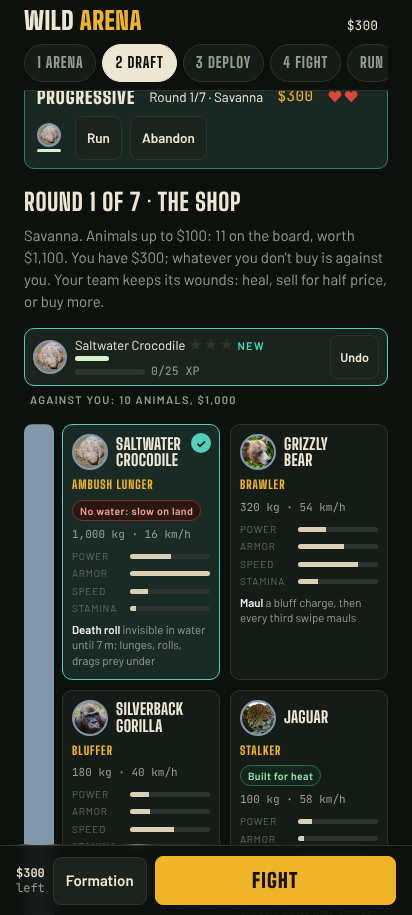
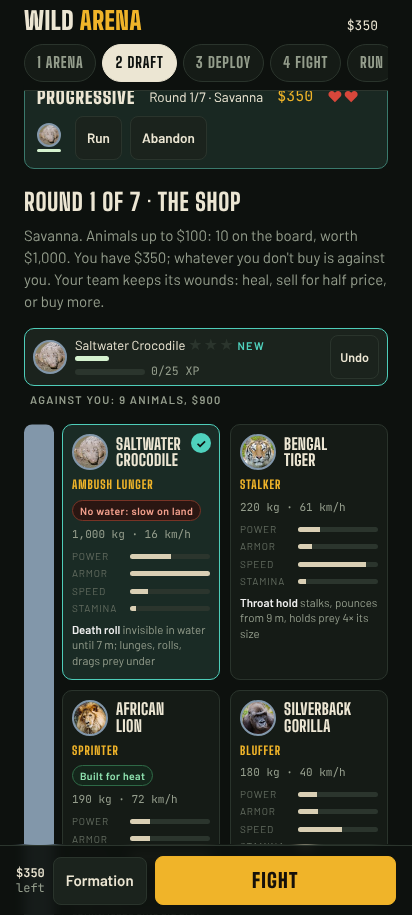
Final reprice on the integrated engine (abs_r16: 20 s/$100, board total $2,600: median best team 92%, typical 166 s, 16 distinct best teams); progressive retuned on it (start $450, boards 10/10/10/10/11/11/12 worth $1,000-2,600: round 1 81%, 15.8% complete); docs and decisions
Claude-Session: https://claude.ai/code/session_01L2JvfUwxunjk4yQsnvm84a

diff --git a/index.html b/index.html
@@ -439,11 +439,11 @@ const ANIMALS = [
   traits:['Lookout: your whole team spots threats 50% farther away','Sees lions a kilometre off, and one kick can kill one','Only kicks what comes at it; never starts a fight']},
  {id:'polar', name:'Polar Bear', abbr:'PBR', price:200, mass:500, spd:11, dmg:145, cd:1.0, armor:.4, reach:2.1, stam:12, heat:.4, cold:1, water:.85, swim:3, aggr:.85, flee:.2, corner:1.3, pred:true, charge:false, vision:30, tags:['scavenger','aquaStalk','snowCamo'], prey:{human:1.6},
   traits:['Largest land carnivore, actively hunts humans; 10 cm of fat under dense fur blunts bites and claws','Aquatic stalk: hidden under water until 7 m, then surges out for an ambush strike (x1.7)','Overheats fast anywhere warm, but swimming cools it; dominant in snow, and white on white it is hard to spot until 15 m']},
- {id:'croc', name:'Saltwater Crocodile', abbr:'CRO', price:200, mass:1000, spd:4.5, dmg:220, cd:1.2, armor:.6, reach:2.2, stam:5, heat:1.1, cold:.2, water:1, swim:5, aggr:.8, flee:.15, corner:1.2, pred:true, charge:false, vision:20, tags:['deathroll','waterbound','ambush'], prey:{human:1.3},
+ {id:'croc', name:'Saltwater Crocodile', abbr:'CRO', price:100, mass:1000, spd:4.5, dmg:220, cd:1.2, armor:.6, reach:2.2, stam:5, heat:1.1, cold:.2, water:1, swim:5, aggr:.8, flee:.15, corner:1.2, pred:true, charge:false, vision:20, tags:['deathroll','waterbound','ambush'], prey:{human:1.3},
   traits:['Strongest bite measured: grabs and death-rolls in water','At home in water: almost invisible until 7 m. On land it is slow and tires fast, but the bite is just as deadly','Cold-blooded: never dealt on the tundra']},
- {id:'buffalo', name:'Cape Buffalo', abbr:'BUF', price:200, mass:750, spd:15, dmg:150, cd:1.2, armor:.4, reach:2.3, stam:20, heat:.9, cold:.6, water:.2, swim:1.5, aggr:.7, flee:.25, corner:1.5, pred:false, charge:true, vision:28, tags:['herd','vindictive','lionKiller'], rivals:{lion:3, tiger:1.8, hyena:1.6},
+ {id:'buffalo', name:'Cape Buffalo', abbr:'BUF', price:300, mass:750, spd:15, dmg:150, cd:1.2, armor:.4, reach:2.3, stam:20, heat:.9, cold:.6, water:.2, swim:1.5, aggr:.7, flee:.25, corner:1.5, pred:false, charge:true, vision:28, tags:['herd','vindictive','lionKiller'], rivals:{lion:3, tiger:1.8, hyena:1.6},
   traits:["'Black death': a wounded buffalo circles back for whoever hurt it, for a long time",'+50% damage against lions, tigers and hyenas','Without a herd, it fights alone']},
- {id:'bison', bluffP:0.3, name:'American Bison', abbr:'BIS', price:200, mass:900, spd:15, dmg:140, cd:1.3, armor:.35, reach:2.3, stam:40, heat:.75, cold:1, water:.2, swim:1.5, aggr:.5, flee:.3, corner:1.8, pred:false, charge:true, vision:28, tags:['herd','standsGround','bluff'],
+ {id:'bison', bluffP:0.3, name:'American Bison', abbr:'BIS', price:300, mass:900, spd:15, dmg:140, cd:1.3, armor:.35, reach:2.3, stam:40, heat:.75, cold:1, water:.2, swim:1.5, aggr:.5, flee:.3, corner:1.8, pred:false, charge:true, vision:28, tags:['herd','standsGround','bluff'],
   traits:['Injures more Yellowstone visitors than any other animal','Tail up, mock charge, then the real thing; spins on a dime','Huge stamina; at home in snow']},
  {id:'grizzly', name:'Grizzly Bear', abbr:'GRZ', bluffP:.75, price:200, mass:320, spd:15, dmg:125, cd:.9, armor:.35, reach:2, stam:15, heat:.65, cold:.95, water:.3, swim:1.8, aggr:.6, flee:.25, corner:1.3, pred:true, charge:false, vision:30, hpMul:1.2, tags:['scavenger','bluff'], prey:{human:.5}, rivals:{polar:1.3, wolf:1.3, cougar:1.4},
   traits:['Very hard to kill (+20% durability)','Charges at 56 km/h, often a bluff; if it does not stop, it mauls','Takes kills from cougars and wolves']},
@@ -464,7 +464,7 @@ const ANIMALS = [
  // ---- added Oct 2026 (no portrait yet: shown as a lettered token) ----
  {id:'blackrhino', bluffP:0.3, name:'Black Rhino', abbr:'BRH', price:300, mass:1200, spd:15, swim:1, dmg:160, cd:1.3, armor:.5, reach:2.3, stam:12, heat:.8, cold:.5, water:0, aggr:.8, flee:.1, corner:1.4, pred:false, charge:true, vision:15, tags:['blindCharger','bluff'],
   traits:['The irritable rhino: half the weight of a white rhino, twice the temper','Charges anything that moves within 18 m, though some charges veer off at the last moment','Hooked lip, sharp front horn, turns quickly for a rhino']},
- {id:'bull', name:'Fighting Bull', abbr:'TOR', price:100, mass:550, spd:15.5, swim:1.5, dmg:150, cd:1.2, armor:.25, reach:2.2, stam:14, heat:.8, cold:.7, water:.2, aggr:.95, flee:.1, corner:1.4, pred:false, charge:true, vision:25, tags:['bred','chasesMovement'],
+ {id:'bull', name:'Fighting Bull', abbr:'TOR', price:200, mass:550, spd:15.5, swim:1.5, dmg:150, cd:1.2, armor:.25, reach:2.2, stam:14, heat:.8, cold:.7, water:.2, aggr:.95, flee:.1, corner:1.4, pred:false, charge:true, vision:25, tags:['bred','chasesMovement'],
   traits:['Toro bravo: bred for centuries to charge, it never needs provoking','Charges whatever moves, then turns fast and comes back','Tires in a long fight']},
  {id:'moose', name:'Moose', abbr:'MOO', price:200, mass:600, spd:15.5, swim:2.5, dmg:140, cd:1.0, armor:.15, reach:2.2, stam:30, heat:.5, cold:1, water:.6, aggr:.5, flee:.3, corner:1.5, pred:false, charge:true, vision:25, tags:['standsGround','stomp'],
   traits:['Injures more people than bears do in Alaska','Stands its ground and stomps: front hooves rain down on anything small or knocked down','Long legs: at home in deep snow, a strong swimmer; suffers in heat']},
@@ -474,7 +474,7 @@ const ANIMALS = [
   traits:['Fearless once fighting: its morale never breaks; wary of big predators, it picks fights with its own size','Musk: a predator that gets hold of it gets a blast from its stink glands and reels away (once every 12 s)','Thick loose skin: it twists out of holds, and its bites on the legs keep rattling whatever it pesters']},
  {id:'triceratops', name:'Triceratops', abbr:'TRI', price:800, mass:8000, spd:8, swim:1.2, dmg:300, cd:1.5, armor:.5, reach:3.2, stam:15, heat:.8, cold:.6, water:.3, aggr:.6, flee:.1, corner:1.3, pred:false, charge:true, vision:25, rare:true, tags:['hatesPredators','giant'],
   traits:['Rare: only turns up on the odd board','Eight tonnes, a bony frill and two 1 m brow horns','Rideable 3 m up; charges like a rhino the size of an elephant']},
- {id:'mammoth', bluffP:0.35, name:'Woolly Mammoth', abbr:'MAM', price:500, mass:6000, spd:7, swim:1.5, dmg:260, cd:1.6, armor:.4, reach:3.6, stam:20, heat:.4, cold:1, water:.5, aggr:.55, flee:.15, corner:1.3, pred:false, charge:true, vision:40, rare:true, tags:['hatesPredators','giant','sweep','bluff'],
+ {id:'mammoth', bluffP:0.35, name:'Woolly Mammoth', abbr:'MAM', price:600, mass:6000, spd:7, swim:1.5, dmg:260, cd:1.6, armor:.4, reach:3.6, stam:20, heat:.4, cold:1, water:.5, aggr:.55, flee:.15, corner:1.3, pred:false, charge:true, vision:40, rare:true, tags:['hatesPredators','giant','sweep','bluff'],
   traits:['Rare: only turns up on the odd board','An elephant in a fur coat: shrugs off the cold, wilts in the heat','Huge curved tusks sweep everything in reach; rideable 3.2 m up']},
  {id:'blackbear', name:'Black Bear', abbr:'BBR', bluffP:.7, bluffHumanP:.1, price:100, mass:120, spd:13.5, swim:1.8, dmg:75, cd:.9, armor:.25, reach:1.8, stam:15, heat:.7, cold:.9, water:.4, aggr:.35, flee:.4, corner:1.6, pred:true, charge:false, vision:25, climb:true, tags:['scavenger','bluff','repeatBluff'], prey:{human:.4},
   traits:['Bouncer: huffs, pops its jaws and bluff-charges animals up to three times before it fights (a person it hunts for real); anything its size it rattles is run off','Bolts up the nearest tree when it is in trouble','Fights hard when cornered']},
@@ -531,7 +531,7 @@ const STYLE = {
 };
 ANIMALS.forEach(a => Object.assign(a, STYLE[a.id]));
 // Pack items: the same species, but one pick brings several. A board deals a species solo or as a pack, never both.
-for (const [id, n, groupName, price, suffix, dealWeight, rare] of [['wolf', 4, 'Wolf pack', 100, null, 3], ['wolf', 6, 'Great wolf pack', 200, 'pack6', .3, true], ['hyena', 4, 'Hyena clan', 100], ['lion', 2, 'Lion coalition', 200], ['buffalo', 3, 'Buffalo herd', 700, 'herd'], ['bison', 3, 'Bison herd', 700, 'herd'], ['muskox', 3, 'Musk ox herd', 400, 'herd']])
+for (const [id, n, groupName, price, suffix, dealWeight, rare] of [['wolf', 4, 'Wolf pack', 100, null, 3], ['wolf', 6, 'Great wolf pack', 200, 'pack6', .3, true], ['hyena', 4, 'Hyena clan', 200], ['lion', 2, 'Lion coalition', 100], ['buffalo', 3, 'Buffalo herd', 700, 'herd'], ['bison', 3, 'Bison herd', 700, 'herd'], ['muskox', 3, 'Musk ox herd', 400, 'herd']])
   ANIMALS.push(Object.assign({}, ANIMALS.find(a => a.id === id), Object.assign({id: id + (suffix || 'pack'), species: id, group: n, groupName, price, dealWeight: dealWeight || 1}, rare ? {rare: true, traits: ['Rare: six wolves hunting as one', 'They circle, test and hamstring until the biggest prey goes down', 'Endless stamina; nervous only if the pack breaks up']} : {})));
 const HUMAN = {id:'human', name:'You', abbr:'YOU', price:0, mass:75, spd:6.5, dmg:6, cd:1, armor:0, reach:1.2, stam:8, heat:1, cold:.6, water:-.5, aggr:0, flee:0, corner:1, pred:false, charge:false, vision:35, swim:1, strikeH:1.8, mountH:0, gait:'human', climb:true, tags:[]};
 const BY_ID = {}; ANIMALS.forEach(a => BY_ID[a.id] = a); BY_ID.human = HUMAN;
@@ -2169,14 +2169,14 @@ function evadeMove(w, u){
 function defaultMount(team){ let b = null, h = 2.99; for (const id of team){ const m = BY_ID[id].mountH; if (m > h){ h = m; b = id; } } return b; }
 // Measured value of each pick (price_abs.js, seconds of survival): mine = with you vs left off the board,
 // theirs = against you vs off the board (negative = it hurts you). Written by apply_values.js; shown on the cards.
-const MEASURED = {/*MEASURED*/elephant:{mine:130,theirs:-28}, rhino:{mine:54,theirs:-21}, hippo:{mine:53,theirs:-18}, giraffe:{mine:27,theirs:-5}, polar:{mine:32,theirs:-7}, croc:{mine:28,theirs:-7}, buffalo:{mine:30,theirs:-16}, bison:{mine:40,theirs:-14}, grizzly:{mine:23,theirs:-12}, tiger:{mine:16,theirs:-4}, lion:{mine:10,theirs:-7}, gorilla:{mine:19,theirs:5}, jaguar:{mine:8,theirs:-1}, wolf:{mine:6,theirs:-3}, cougar:{mine:6,theirs:0}, hyena:{mine:-4,theirs:-2}, blackrhino:{mine:46,theirs:-18}, bull:{mine:20,theirs:-9}, moose:{mine:33,theirs:-6}, ostrich:{mine:4,theirs:0}, honeybadger:{mine:2,theirs:1}, triceratops:{mine:190,theirs:-25}, mammoth:{mine:81,theirs:-20}, blackbear:{mine:11,theirs:-9}, leopard:{mine:14,theirs:3}, boar:{mine:19,theirs:-3}, giantkangaroo:{mine:6,theirs:-6}, smilodon:{mine:16,theirs:-6}, wolfpack:{mine:19,theirs:-6}, wolfpack6:{mine:25,theirs:-7}, hyenapack:{mine:17,theirs:-12}, lionpack:{mine:21,theirs:-15}, buffaloherd:{mine:129,theirs:-35}, bisonherd:{mine:134,theirs:-27}};
+const MEASURED = {/*MEASURED*/elephant:{mine:144,theirs:-23}, rhino:{mine:71,theirs:-13}, hippo:{mine:61,theirs:-21}, giraffe:{mine:31,theirs:-7}, polar:{mine:32,theirs:-12}, croc:{mine:24,theirs:-2}, buffalo:{mine:47,theirs:-19}, bison:{mine:44,theirs:-12}, grizzly:{mine:28,theirs:-6}, tiger:{mine:10,theirs:-16}, lion:{mine:19,theirs:1}, gorilla:{mine:5,theirs:-6}, jaguar:{mine:14,theirs:-2}, wolf:{mine:6,theirs:-6}, cougar:{mine:8,theirs:0}, hyena:{mine:13,theirs:-10}, blackrhino:{mine:36,theirs:-23}, bull:{mine:28,theirs:-11}, moose:{mine:27,theirs:-17}, ostrich:{mine:3,theirs:-5}, honeybadger:{mine:3,theirs:2}, triceratops:{mine:188,theirs:-22}, mammoth:{mine:104,theirs:-16}, blackbear:{mine:10,theirs:0}, leopard:{mine:9,theirs:-4}, boar:{mine:7,theirs:-3}, giantkangaroo:{mine:18,theirs:1}, smilodon:{mine:21,theirs:-6}, muskox:{mine:12,theirs:-6}, gaur:{mine:42,theirs:-18}, walrus:{mine:23,theirs:-7}, wolfpack:{mine:19,theirs:-6}, wolfpack6:{mine:26,theirs:-5}, hyenapack:{mine:25,theirs:-10}, lionpack:{mine:22,theirs:-4}, buffaloherd:{mine:142,theirs:-26}, bisonherd:{mine:147,theirs:-27}, muskoxherd:{mine:55,theirs:-22}};
 // ---------- board rules ----------
 // Each game deals a board of RULES.board animals from the roster (a rare animal turns up with probability rareP).
 // You spend up to RULES.budget on the board; every board animal you don't pick is on the other side.
 // With RULES.total set, every board's prices add up to total (± tol), so every board has the same total value
 // and you always buy the same share of it. rules.terrain (optional) keeps cold-blooded animals off cold maps.
 // Wolves, hyenas and lions are dealt either solo or as a pack item (one pick brings the whole group).
-const RULES = {board: 12, budget: 1200, total: 2500, tol: 100, rareP: .3}; // owner: $1,000 felt hard; see CLAUDE.md for validation
+const RULES = {board: 12, budget: 1200, total: 2600, tol: 100, rareP: .3}; // owner: $1,000 felt hard; see CLAUDE.md for validation
 // cold-blooded animals (the croc) never on a cold map; habitat {terrain: weight} limits a species to those maps (no
 // terrain given = not dealt); dealsOn(id, terrain) = can this catalog item ever turn up on a board of that map
 const coldOK = (a, tid) => !(tid && (TERRAINS[tid] || {}).cold && a.cold < .3);
@@ -2807,12 +2807,12 @@ const PROG = {
   ROUNDS: 7, RETRIES: 2,
   // the price ladder: round k (0-based) deals CAP[k] or cheaper (0 = no cap), BOARD[k] animals worth TOTAL[k] (± $100)
   CAP:   [100, 200, 300, 400, 400, 700, 0],
-  BOARD: [11, 10, 10, 10, 11, 11, 12],
-  TOTAL: [1100, 1300, 1600, 1900, 2200, 2400, 2700], // tuned with progressive_bot.js (Oct 27): see CLAUDE.md
+  BOARD: [10, 10, 10, 10, 11, 11, 12],
+  TOTAL: [1000, 1200, 1500, 1800, 2100, 2300, 2600], // retuned on the final engine (abs_r16 prices, Oct 27): see CLAUDE.md
   RARE:  [.1, .15, .2, .25, .3, .3, .3],
   R1_OUT: [],                      // species kept out of round 1 (e.g. the $100 big cats, so it's the small fry's round)
   PREMIUM_FROM: 2,                 // round 3 on: one premium enemy from the round's top price band, not for sale
-  START: 400, TOPUP: [0, 400, 500, 500, 500, 600, 800], // money: $START for round 1, then a fixed top-up for each later round you reach
+  START: 450, TOPUP: [0, 400, 500, 500, 500, 600, 800], // money: $START for round 1, then a fixed top-up for each later round you reach
   PER_KILL: 25, KILL_CAP: 150,     // + $25 per enemy killed, at most $150 a fight (owner may change these)
   REST: .3,                        // free rest between fights: heals 30% of the missing health
   HEAL_SHARE: .25, HEAL_MIN: 50,   // full heal: 25% of the price, at least $50

diff --git a/sim.js b/sim.js
@@ -21,11 +21,11 @@ const ANIMALS = [
   traits:['Lookout: your whole team spots threats 50% farther away','Sees lions a kilometre off, and one kick can kill one','Only kicks what comes at it; never starts a fight']},
  {id:'polar', name:'Polar Bear', abbr:'PBR', price:200, mass:500, spd:11, dmg:145, cd:1.0, armor:.4, reach:2.1, stam:12, heat:.4, cold:1, water:.85, swim:3, aggr:.85, flee:.2, corner:1.3, pred:true, charge:false, vision:30, tags:['scavenger','aquaStalk','snowCamo'], prey:{human:1.6},
   traits:['Largest land carnivore, actively hunts humans; 10 cm of fat under dense fur blunts bites and claws','Aquatic stalk: hidden under water until 7 m, then surges out for an ambush strike (x1.7)','Overheats fast anywhere warm, but swimming cools it; dominant in snow, and white on white it is hard to spot until 15 m']},
- {id:'croc', name:'Saltwater Crocodile', abbr:'CRO', price:200, mass:1000, spd:4.5, dmg:220, cd:1.2, armor:.6, reach:2.2, stam:5, heat:1.1, cold:.2, water:1, swim:5, aggr:.8, flee:.15, corner:1.2, pred:true, charge:false, vision:20, tags:['deathroll','waterbound','ambush'], prey:{human:1.3},
+ {id:'croc', name:'Saltwater Crocodile', abbr:'CRO', price:100, mass:1000, spd:4.5, dmg:220, cd:1.2, armor:.6, reach:2.2, stam:5, heat:1.1, cold:.2, water:1, swim:5, aggr:.8, flee:.15, corner:1.2, pred:true, charge:false, vision:20, tags:['deathroll','waterbound','ambush'], prey:{human:1.3},
   traits:['Strongest bite measured: grabs and death-rolls in water','At home in water: almost invisible until 7 m. On land it is slow and tires fast, but the bite is just as deadly','Cold-blooded: never dealt on the tundra']},
- {id:'buffalo', name:'Cape Buffalo', abbr:'BUF', price:200, mass:750, spd:15, dmg:150, cd:1.2, armor:.4, reach:2.3, stam:20, heat:.9, cold:.6, water:.2, swim:1.5, aggr:.7, flee:.25, corner:1.5, pred:false, charge:true, vision:28, tags:['herd','vindictive','lionKiller'], rivals:{lion:3, tiger:1.8, hyena:1.6},
+ {id:'buffalo', name:'Cape Buffalo', abbr:'BUF', price:300, mass:750, spd:15, dmg:150, cd:1.2, armor:.4, reach:2.3, stam:20, heat:.9, cold:.6, water:.2, swim:1.5, aggr:.7, flee:.25, corner:1.5, pred:false, charge:true, vision:28, tags:['herd','vindictive','lionKiller'], rivals:{lion:3, tiger:1.8, hyena:1.6},
   traits:["'Black death': a wounded buffalo circles back for whoever hurt it, for a long time",'+50% damage against lions, tigers and hyenas','Without a herd, it fights alone']},
- {id:'bison', bluffP:0.3, name:'American Bison', abbr:'BIS', price:200, mass:900, spd:15, dmg:140, cd:1.3, armor:.35, reach:2.3, stam:40, heat:.75, cold:1, water:.2, swim:1.5, aggr:.5, flee:.3, corner:1.8, pred:false, charge:true, vision:28, tags:['herd','standsGround','bluff'],
+ {id:'bison', bluffP:0.3, name:'American Bison', abbr:'BIS', price:300, mass:900, spd:15, dmg:140, cd:1.3, armor:.35, reach:2.3, stam:40, heat:.75, cold:1, water:.2, swim:1.5, aggr:.5, flee:.3, corner:1.8, pred:false, charge:true, vision:28, tags:['herd','standsGround','bluff'],
   traits:['Injures more Yellowstone visitors than any other animal','Tail up, mock charge, then the real thing; spins on a dime','Huge stamina; at home in snow']},
  {id:'grizzly', name:'Grizzly Bear', abbr:'GRZ', bluffP:.75, price:200, mass:320, spd:15, dmg:125, cd:.9, armor:.35, reach:2, stam:15, heat:.65, cold:.95, water:.3, swim:1.8, aggr:.6, flee:.25, corner:1.3, pred:true, charge:false, vision:30, hpMul:1.2, tags:['scavenger','bluff'], prey:{human:.5}, rivals:{polar:1.3, wolf:1.3, cougar:1.4},
   traits:['Very hard to kill (+20% durability)','Charges at 56 km/h, often a bluff; if it does not stop, it mauls','Takes kills from cougars and wolves']},
@@ -46,7 +46,7 @@ const ANIMALS = [
  // ---- added Oct 2026 (no portrait yet: shown as a lettered token) ----
  {id:'blackrhino', bluffP:0.3, name:'Black Rhino', abbr:'BRH', price:300, mass:1200, spd:15, swim:1, dmg:160, cd:1.3, armor:.5, reach:2.3, stam:12, heat:.8, cold:.5, water:0, aggr:.8, flee:.1, corner:1.4, pred:false, charge:true, vision:15, tags:['blindCharger','bluff'],
   traits:['The irritable rhino: half the weight of a white rhino, twice the temper','Charges anything that moves within 18 m, though some charges veer off at the last moment','Hooked lip, sharp front horn, turns quickly for a rhino']},
- {id:'bull', name:'Fighting Bull', abbr:'TOR', price:100, mass:550, spd:15.5, swim:1.5, dmg:150, cd:1.2, armor:.25, reach:2.2, stam:14, heat:.8, cold:.7, water:.2, aggr:.95, flee:.1, corner:1.4, pred:false, charge:true, vision:25, tags:['bred','chasesMovement'],
+ {id:'bull', name:'Fighting Bull', abbr:'TOR', price:200, mass:550, spd:15.5, swim:1.5, dmg:150, cd:1.2, armor:.25, reach:2.2, stam:14, heat:.8, cold:.7, water:.2, aggr:.95, flee:.1, corner:1.4, pred:false, charge:true, vision:25, tags:['bred','chasesMovement'],
   traits:['Toro bravo: bred for centuries to charge, it never needs provoking','Charges whatever moves, then turns fast and comes back','Tires in a long fight']},
  {id:'moose', name:'Moose', abbr:'MOO', price:200, mass:600, spd:15.5, swim:2.5, dmg:140, cd:1.0, armor:.15, reach:2.2, stam:30, heat:.5, cold:1, water:.6, aggr:.5, flee:.3, corner:1.5, pred:false, charge:true, vision:25, tags:['standsGround','stomp'],
   traits:['Injures more people than bears do in Alaska','Stands its ground and stomps: front hooves rain down on anything small or knocked down','Long legs: at home in deep snow, a strong swimmer; suffers in heat']},
@@ -56,7 +56,7 @@ const ANIMALS = [
   traits:['Fearless once fighting: its morale never breaks; wary of big predators, it picks fights with its own size','Musk: a predator that gets hold of it gets a blast from its stink glands and reels away (once every 12 s)','Thick loose skin: it twists out of holds, and its bites on the legs keep rattling whatever it pesters']},
  {id:'triceratops', name:'Triceratops', abbr:'TRI', price:800, mass:8000, spd:8, swim:1.2, dmg:300, cd:1.5, armor:.5, reach:3.2, stam:15, heat:.8, cold:.6, water:.3, aggr:.6, flee:.1, corner:1.3, pred:false, charge:true, vision:25, rare:true, tags:['hatesPredators','giant'],
   traits:['Rare: only turns up on the odd board','Eight tonnes, a bony frill and two 1 m brow horns','Rideable 3 m up; charges like a rhino the size of an elephant']},
- {id:'mammoth', bluffP:0.35, name:'Woolly Mammoth', abbr:'MAM', price:500, mass:6000, spd:7, swim:1.5, dmg:260, cd:1.6, armor:.4, reach:3.6, stam:20, heat:.4, cold:1, water:.5, aggr:.55, flee:.15, corner:1.3, pred:false, charge:true, vision:40, rare:true, tags:['hatesPredators','giant','sweep','bluff'],
+ {id:'mammoth', bluffP:0.35, name:'Woolly Mammoth', abbr:'MAM', price:600, mass:6000, spd:7, swim:1.5, dmg:260, cd:1.6, armor:.4, reach:3.6, stam:20, heat:.4, cold:1, water:.5, aggr:.55, flee:.15, corner:1.3, pred:false, charge:true, vision:40, rare:true, tags:['hatesPredators','giant','sweep','bluff'],
   traits:['Rare: only turns up on the odd board','An elephant in a fur coat: shrugs off the cold, wilts in the heat','Huge curved tusks sweep everything in reach; rideable 3.2 m up']},
  {id:'blackbear', name:'Black Bear', abbr:'BBR', bluffP:.7, bluffHumanP:.1, price:100, mass:120, spd:13.5, swim:1.8, dmg:75, cd:.9, armor:.25, reach:1.8, stam:15, heat:.7, cold:.9, water:.4, aggr:.35, flee:.4, corner:1.6, pred:true, charge:false, vision:25, climb:true, tags:['scavenger','bluff','repeatBluff'], prey:{human:.4},
   traits:['Bouncer: huffs, pops its jaws and bluff-charges animals up to three times before it fights (a person it hunts for real); anything its size it rattles is run off','Bolts up the nearest tree when it is in trouble','Fights hard when cornered']},
@@ -113,7 +113,7 @@ const STYLE = {
 };
 ANIMALS.forEach(a => Object.assign(a, STYLE[a.id]));
 // Pack items: the same species, but one pick brings several. A board deals a species solo or as a pack, never both.
-for (const [id, n, groupName, price, suffix, dealWeight, rare] of [['wolf', 4, 'Wolf pack', 100, null, 3], ['wolf', 6, 'Great wolf pack', 200, 'pack6', .3, true], ['hyena', 4, 'Hyena clan', 100], ['lion', 2, 'Lion coalition', 200], ['buffalo', 3, 'Buffalo herd', 700, 'herd'], ['bison', 3, 'Bison herd', 700, 'herd'], ['muskox', 3, 'Musk ox herd', 400, 'herd']])
+for (const [id, n, groupName, price, suffix, dealWeight, rare] of [['wolf', 4, 'Wolf pack', 100, null, 3], ['wolf', 6, 'Great wolf pack', 200, 'pack6', .3, true], ['hyena', 4, 'Hyena clan', 200], ['lion', 2, 'Lion coalition', 100], ['buffalo', 3, 'Buffalo herd', 700, 'herd'], ['bison', 3, 'Bison herd', 700, 'herd'], ['muskox', 3, 'Musk ox herd', 400, 'herd']])
   ANIMALS.push(Object.assign({}, ANIMALS.find(a => a.id === id), Object.assign({id: id + (suffix || 'pack'), species: id, group: n, groupName, price, dealWeight: dealWeight || 1}, rare ? {rare: true, traits: ['Rare: six wolves hunting as one', 'They circle, test and hamstring until the biggest prey goes down', 'Endless stamina; nervous only if the pack breaks up']} : {})));
 const HUMAN = {id:'human', name:'You', abbr:'YOU', price:0, mass:75, spd:6.5, dmg:6, cd:1, armor:0, reach:1.2, stam:8, heat:1, cold:.6, water:-.5, aggr:0, flee:0, corner:1, pred:false, charge:false, vision:35, swim:1, strikeH:1.8, mountH:0, gait:'human', climb:true, tags:[]};
 const BY_ID = {}; ANIMALS.forEach(a => BY_ID[a.id] = a); BY_ID.human = HUMAN;
@@ -1751,14 +1751,14 @@ function evadeMove(w, u){
 function defaultMount(team){ let b = null, h = 2.99; for (const id of team){ const m = BY_ID[id].mountH; if (m > h){ h = m; b = id; } } return b; }
 // Measured value of each pick (price_abs.js, seconds of survival): mine = with you vs left off the board,
 // theirs = against you vs off the board (negative = it hurts you). Written by apply_values.js; shown on the cards.
-const MEASURED = {/*MEASURED*/elephant:{mine:130,theirs:-28}, rhino:{mine:54,theirs:-21}, hippo:{mine:53,theirs:-18}, giraffe:{mine:27,theirs:-5}, polar:{mine:32,theirs:-7}, croc:{mine:28,theirs:-7}, buffalo:{mine:30,theirs:-16}, bison:{mine:40,theirs:-14}, grizzly:{mine:23,theirs:-12}, tiger:{mine:16,theirs:-4}, lion:{mine:10,theirs:-7}, gorilla:{mine:19,theirs:5}, jaguar:{mine:8,theirs:-1}, wolf:{mine:6,theirs:-3}, cougar:{mine:6,theirs:0}, hyena:{mine:-4,theirs:-2}, blackrhino:{mine:46,theirs:-18}, bull:{mine:20,theirs:-9}, moose:{mine:33,theirs:-6}, ostrich:{mine:4,theirs:0}, honeybadger:{mine:2,theirs:1}, triceratops:{mine:190,theirs:-25}, mammoth:{mine:81,theirs:-20}, blackbear:{mine:11,theirs:-9}, leopard:{mine:14,theirs:3}, boar:{mine:19,theirs:-3}, giantkangaroo:{mine:6,theirs:-6}, smilodon:{mine:16,theirs:-6}, wolfpack:{mine:19,theirs:-6}, wolfpack6:{mine:25,theirs:-7}, hyenapack:{mine:17,theirs:-12}, lionpack:{mine:21,theirs:-15}, buffaloherd:{mine:129,theirs:-35}, bisonherd:{mine:134,theirs:-27}};
+const MEASURED = {/*MEASURED*/elephant:{mine:144,theirs:-23}, rhino:{mine:71,theirs:-13}, hippo:{mine:61,theirs:-21}, giraffe:{mine:31,theirs:-7}, polar:{mine:32,theirs:-12}, croc:{mine:24,theirs:-2}, buffalo:{mine:47,theirs:-19}, bison:{mine:44,theirs:-12}, grizzly:{mine:28,theirs:-6}, tiger:{mine:10,theirs:-16}, lion:{mine:19,theirs:1}, gorilla:{mine:5,theirs:-6}, jaguar:{mine:14,theirs:-2}, wolf:{mine:6,theirs:-6}, cougar:{mine:8,theirs:0}, hyena:{mine:13,theirs:-10}, blackrhino:{mine:36,theirs:-23}, bull:{mine:28,theirs:-11}, moose:{mine:27,theirs:-17}, ostrich:{mine:3,theirs:-5}, honeybadger:{mine:3,theirs:2}, triceratops:{mine:188,theirs:-22}, mammoth:{mine:104,theirs:-16}, blackbear:{mine:10,theirs:0}, leopard:{mine:9,theirs:-4}, boar:{mine:7,theirs:-3}, giantkangaroo:{mine:18,theirs:1}, smilodon:{mine:21,theirs:-6}, muskox:{mine:12,theirs:-6}, gaur:{mine:42,theirs:-18}, walrus:{mine:23,theirs:-7}, wolfpack:{mine:19,theirs:-6}, wolfpack6:{mine:26,theirs:-5}, hyenapack:{mine:25,theirs:-10}, lionpack:{mine:22,theirs:-4}, buffaloherd:{mine:142,theirs:-26}, bisonherd:{mine:147,theirs:-27}, muskoxherd:{mine:55,theirs:-22}};
 // ---------- board rules ----------
 // Each game deals a board of RULES.board animals from the roster (a rare animal turns up with probability rareP).
 // You spend up to RULES.budget on the board; every board animal you don't pick is on the other side.
 // With RULES.total set, every board's prices add up to total (± tol), so every board has the same total value
 // and you always buy the same share of it. rules.terrain (optional) keeps cold-blooded animals off cold maps.
 // Wolves, hyenas and lions are dealt either solo or as a pack item (one pick brings the whole group).
-const RULES = {board: 12, budget: 1200, total: 2500, tol: 100, rareP: .3}; // owner: $1,000 felt hard; see CLAUDE.md for validation
+const RULES = {board: 12, budget: 1200, total: 2600, tol: 100, rareP: .3}; // owner: $1,000 felt hard; see CLAUDE.md for validation
 // cold-blooded animals (the croc) never on a cold map; habitat {terrain: weight} limits a species to those maps (no
 // terrain given = not dealt); dealsOn(id, terrain) = can this catalog item ever turn up on a board of that map
 const coldOK = (a, tid) => !(tid && (TERRAINS[tid] || {}).cold && a.cold < .3);

diff --git a/progressive.js b/progressive.js
@@ -16,12 +16,12 @@ const PROG = {
   ROUNDS: 7, RETRIES: 2,
   // the price ladder: round k (0-based) deals CAP[k] or cheaper (0 = no cap), BOARD[k] animals worth TOTAL[k] (± $100)
   CAP:   [100, 200, 300, 400, 400, 700, 0],
-  BOARD: [11, 10, 10, 10, 11, 11, 12],
-  TOTAL: [1100, 1300, 1600, 1900, 2200, 2400, 2700], // tuned with progressive_bot.js (Oct 27): see CLAUDE.md
+  BOARD: [10, 10, 10, 10, 11, 11, 12],
+  TOTAL: [1000, 1200, 1500, 1800, 2100, 2300, 2600], // retuned on the final engine (abs_r16 prices, Oct 27): see CLAUDE.md
   RARE:  [.1, .15, .2, .25, .3, .3, .3],
   R1_OUT: [],                      // species kept out of round 1 (e.g. the $100 big cats, so it's the small fry's round)
   PREMIUM_FROM: 2,                 // round 3 on: one premium enemy from the round's top price band, not for sale
-  START: 400, TOPUP: [0, 400, 500, 500, 500, 600, 800], // money: $START for round 1, then a fixed top-up for each later round you reach
+  START: 450, TOPUP: [0, 400, 500, 500, 500, 600, 800], // money: $START for round 1, then a fixed top-up for each later round you reach
   PER_KILL: 25, KILL_CAP: 150,     // + $25 per enemy killed, at most $150 a fight (owner may change these)
   REST: .3,                        // free rest between fights: heals 30% of the missing health
   HEAL_SHARE: .25, HEAL_MIN: 50,   // full heal: 25% of the price, at least $50

diff --git a/CLAUDE.md b/CLAUDE.md
@@ -337,7 +337,14 @@ round. Report ± standard errors.
   median board's best team 88% (min 33, p25 75), typical full-spend team 160 s, 16 distinct best teams over 16 boards, no
   elephant in any; best teams spread over rhino 6, hippo 6, tiger 4, giraffe 4, croc 4 (was elephant 5, rhino 4). For
   comparison, total $2,500 gave 96% / 181 s (not adopted: it would make the other side weaker).
-- **Current prices (`abs_mid1`, Oct 27, with the musk ox herd, gaur and walrus):** 20 s of swing per $100, giants/herds capped
+- **Current prices (`abs_r16`, Oct 27 night, the final integrated engine: GCP realism pass + bulldozer_v1 + charger_v1 + cat_v1
+  live, rare elephant, musk ox herd / gaur / walrus, progressive hooks):** 20 s of swing per $100, giants/herds capped at $700
+  (triceratops $800), **board total $2,600** (kept: `price_scheme` itself landed on $2,600), budget $1,200, rares 30%.
+  Validation (`RAREP=.3 board.js 16 2 24 12 1200 2600`): median board's best team 92% (min 38, p25 71), typical full-spend
+  team 166 s, 60% of teams win a screen run, 16 distinct best teams over 16 boards. ($2,500: 92%, 176 s, 71%.) Changes vs
+  `abs_mid1`: croc $100, buffalo $300, bison $300, bull $200, mammoth $600, hyena clan $200, lion coalition $100. New items:
+  musk ox herd $400 (78 ± 13 s), gaur $300 (60 ± 7), walrus $200 (30 ± 10).
+- *Previous* prices (`abs_mid1`, Oct 27, on the animals branch before the integration, with the musk ox herd, gaur and walrus): 20 s of swing per $100, giants/herds capped
   at $700 (triceratops $800), **board total $2,500** (was $2,600), budget $1,200, rares 30%, elephant rare. `price_abs.js 240`
   (all items) + `price_abs.js 960` for the tundra-only items (240 tundra boards), merged. New: musk ox herd $400 (79 s), gaur
   $300 (62), walrus $200 (31). Repriced: hippo $400, mammoth $500, croc $200; buffalo, bison $200; grizzly, lion coalition $100.
@@ -380,7 +387,12 @@ round. Report ± standard errors.
   With full teams, 38% of your damage is collateral (charges and sweeps aimed at your animals hit you). Of 11 ideas only
   a stale-dodge bug fix survived on the current engine.
 
-## In flight (Oct 26, for a new session)
+## In flight (Oct 27, for a new session)
+- **Night of Oct 26–27 integration (one PR to main):** gcp/arch1 (bulldozer_v1, charger_v1, realism pass, GCP tooling) +
+  progressive-mode + animals-mid1 + the mobile UX pass (already on main), then one final reprice (`abs_r16`). Re-checks on
+  the merged engine (`policy/probes/eval_arch.js … 1000 61`): bulldozer +0.113 ± 0.029, charger +0.124 ± 0.037, cat
+  +0.067 ± 0.026 vs heuristic, style 1.00, no drift. guard round 3 (GCP) found no guard_v2; brawler/kicker stay heuristic.
+  The GCP session keeps training (milestone 4 learned targets on `m4/*` branches); it pushes only to its own branches.
 - **v2 sweep (run 40372090395, `m3_v2`) found nothing that beats v1 so far; v1 stays live.** Training tests: only the
   warm harrier run h2_c1_s1 passed (+0.033 ± 0.016 vs harrier_v1); on fresh fights (`eval_state.js … 1200 33`, v1 arm) the
   top three harriers were +0.011 ± 0.014, +0.031 ± 0.018, +0.008 ± 0.017 vs v1. Guards: the warm runs didn't move (most
@@ -395,9 +407,13 @@ round. Report ± standard errors.
 
 ## Progressive mode (prototype Oct 27, `?progressive=1`; details and numbers in `research/progressive_mode.md`)
 - 7 rounds up a price ladder (round 1 $100 animals only … round 7 any, a giant for sale), premium enemy from round 3 (top
-  band, not for sale), $400 start + top-ups 400/500/500/500/600/800, $25/kill (cap $150), rest 30% / heal 25% of price,
+  band, not for sale), $450 start + top-ups 400/500/500/500/600/800, boards 10/10/10/10/11/11/12 worth
+  $1,000/1,200/1,500/1,800/2,100/2,300/2,600, $25/kill (cap $150), rest 30% / heal 25% of price,
   scars, XP and levels (level 3 ≈ +8% of swing, `level_abs.js`), two retries (a loss restores the round's shop).
-- Bot (500 runs): round 1 first-try 83%, median run ends in round 5, 16.4% complete. Round 1 has real choices (random team
+- Bot on the final engine (`abs_r16`, all live policies; 500 runs): round 1 first-try 81%, median run ends in round 6,
+  15.8% complete; round 6 (herd premium) is the wall (first-try 32%). Before the integration: 83%, round 5, 16.4%.
+  `PROG.R1_OUT` (species kept out of round 1) was tried with the $100 big cats + croc out: runs got harder (2.6% complete)
+  and the badger still barely kills, so it's off. Earlier bot (pre-integration): Round 1 has real choices (random team
   40%, 9 best teams over 16 boards) but tiger/lion/croc dominate it; the honey badger gets 0.02 kills a fight (open).
 
 ## Open threads (full list in BACKLOG.md)

diff --git a/DECISIONS.md b/DECISIONS.md
@@ -9,10 +9,10 @@ Each item has a recommendation; reply with a number and "yes", or your own call.
 2. **Progressive mode: the premium herd.** In rounds 6–7 the round's top non-rare band is the $700 buffalo / bison herd
    (3 animals), so the premium enemy is a whole herd; that's the run's wall (round 6 first-try win 44%). Option: cap the
    premium at $400 (a rhino). Recommendation: playtest it as is first; the bot still completes 18% of runs.
-3. **Progressive mode: round 1 is a big-cat round, not a badger round.** The $100 tier includes the tiger, lion, jaguar
-   and croc; they dominate round 1 and the honey badger gets 0.02 kills a fight. Option: deal round 1 without them (badger,
-   boar, leopard, lone wolf, ostrich, cougar, hyena, black bear, gorilla...). Recommendation: try it; it changes the
-   round-1 balance, so re-run `progressive_bot.js` after.
+3. **Progressive mode: the honey badger story.** Round 1 is a big-cat round (tiger, lion, croc fill the best teams); the badger
+   barely kills. Tried overnight: dealing round 1 without the $100 big cats and croc (`PROG.R1_OUT`) made runs harder (2.6%
+   complete) and the badger still didn't kill, so it's off. Real fix ideas: a badger-specific XP/kill source (it harries
+   and steals kills?), or accept that its story is surviving (12% of runs still have it in round 4). Your call.
 4. **Prehistoric animals to build** (`research/prehistoric_candidates.md`, all proposed as rares): giant short-faced bear,
    woolly rhino, Doedicurus (tail-club glyptodont), Utahraptor; alternates Homotherium pair, dire wolf pack, Protoceratops
    herd; Stegosaurus if you want another giant. Recommendation: woolly rhino + short-faced bear first (best evidence,
@@ -21,6 +21,10 @@ Each item has a recommendation; reply with a number and "yes", or your own call.
    (they stay in the detail panel) to cut the draft page roughly in half. Default if no answer: leave cards as they are.
 6. **5 in a Row:** the owner moved on to the progressive mode. Default: leave it hidden behind `?five=1`; delete later if
    unused.
+7. **New animals' open questions** (musk ox herd, gaur, walrus — now live): musk ox only on the tundra, or also the forest at a
+   low weight? The walrus won't leave its lake, so 4.5% of tundra-lake fights end "they gave up": acceptable as honest
+   behaviour? Their signature moves are visible but barely move the numbers (the bodies carry the value): strengthen any
+   only with a sourced reason (ideas: walrus stampede, gaur herd mobbing a tiger, lone-bull gaur).
 
 ## Decided
 - Oct 27: cards show the signature move and your own record (built); personal stats panel built.
